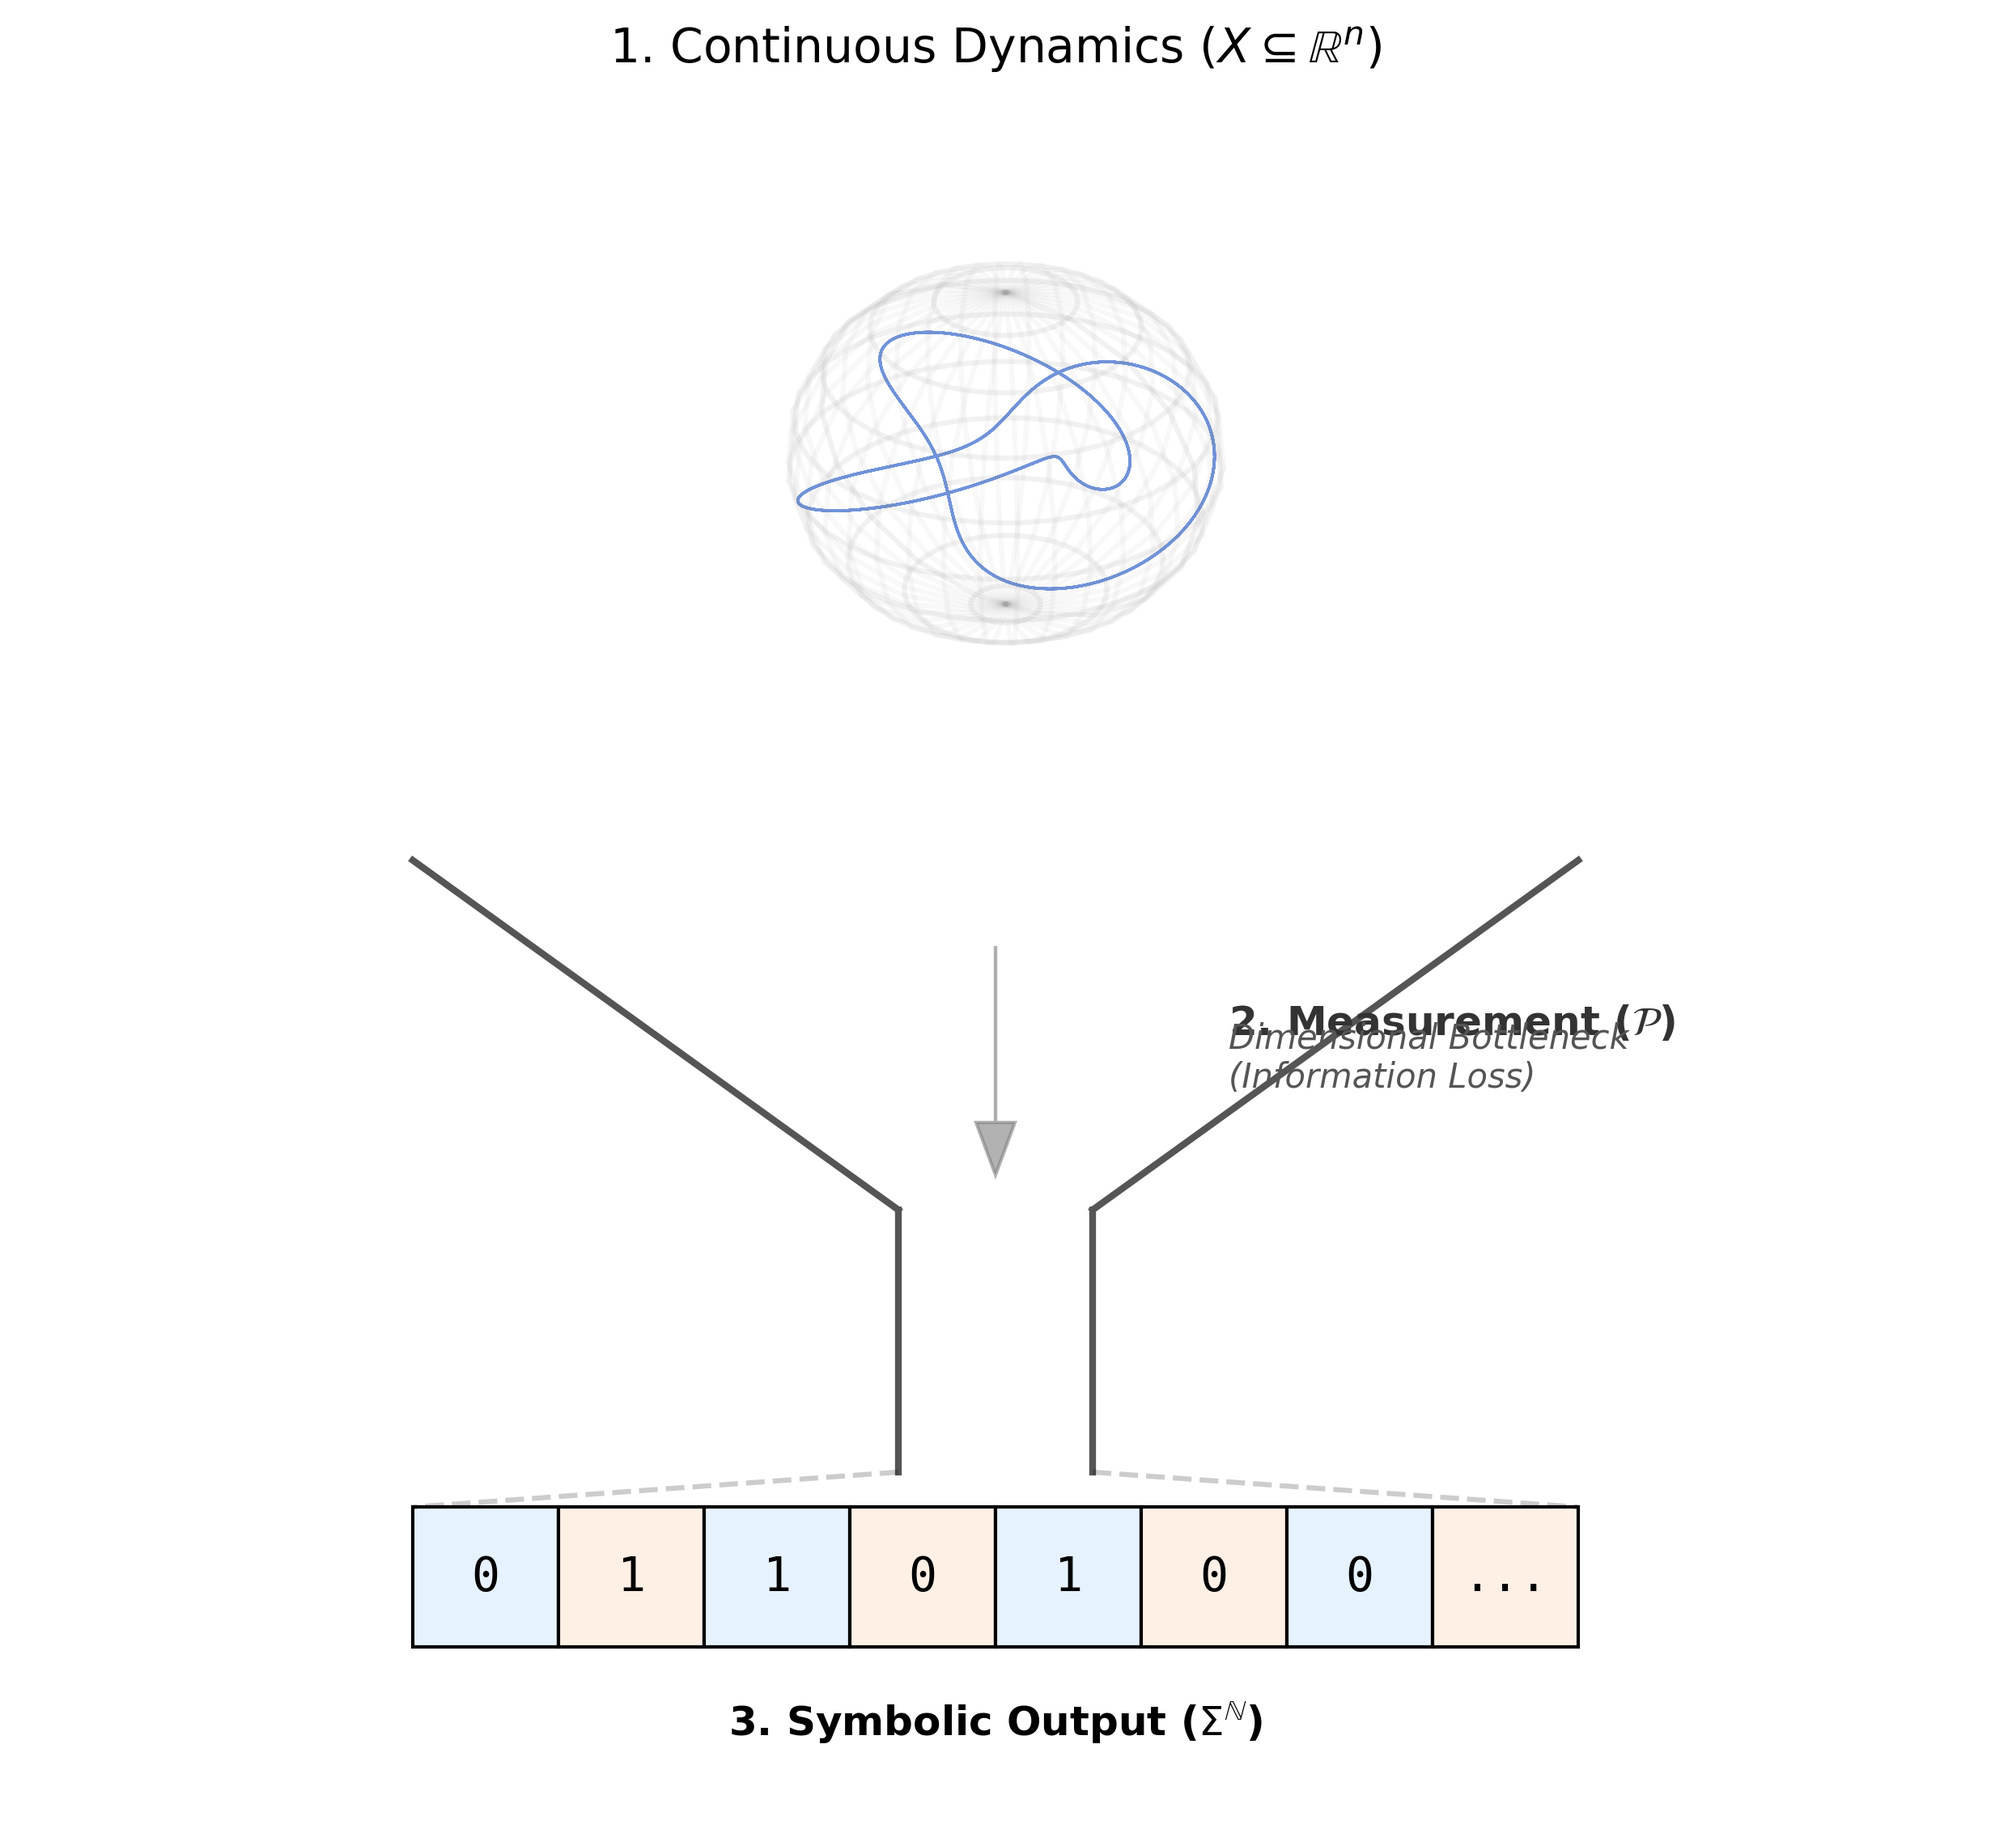
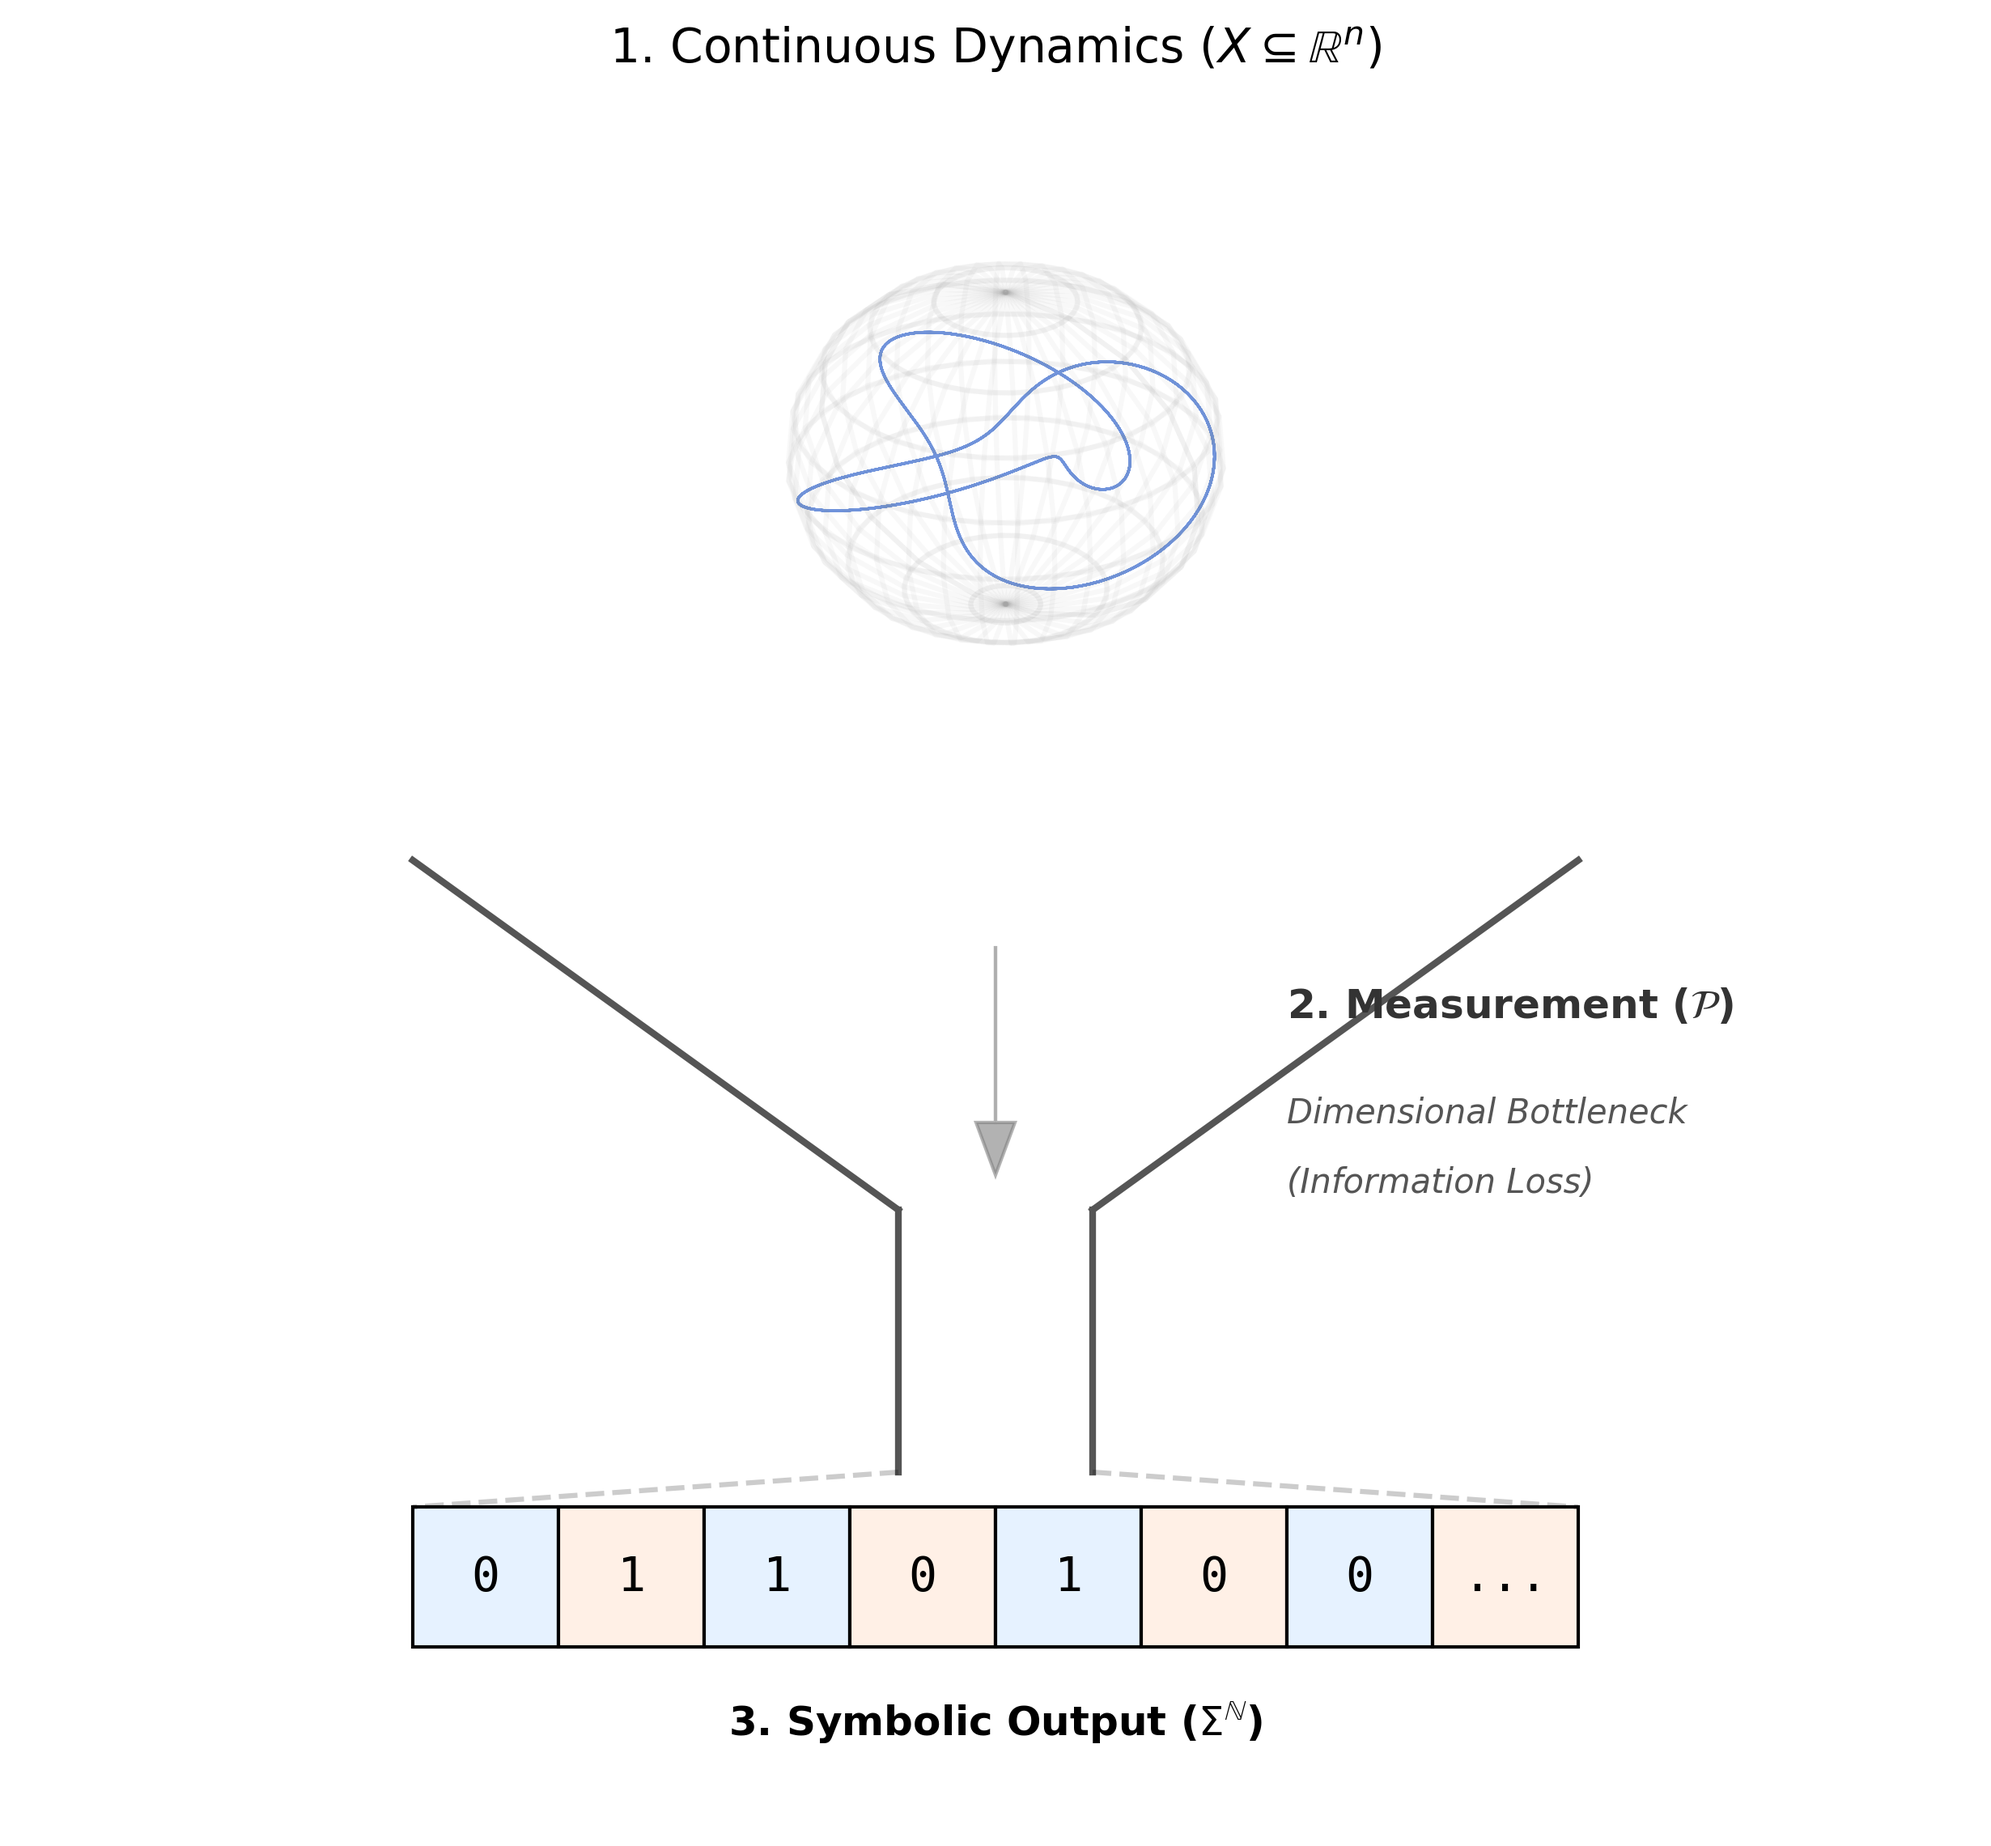
Fix overlapping labels in bottleneck diagram

Changed region(s): [[0.6179, 0.5292, 0.865, 0.6537]]

diff --git a/code/bottleneck_diagram.py b/code/bottleneck_diagram.py
@@ -77,9 +77,11 @@ def generate_bottleneck_diagram():
                 '-', lw=2, color=funnel_color)
 
     # Annotations for the Process
-    ax_mid.text(center_x + 1.2, 4.5, r"2. Measurement ($\mathcal{P}$)",
+    ax_mid.text(center_x + 1.5, 4.6, r"2. Measurement ($\mathcal{P}$)",
                 fontsize=12, fontweight='bold', color='#333333')
-    ax_mid.text(center_x + 1.2, 4.2, "Dimensional Bottleneck\n(Information Loss)",
+    ax_mid.text(center_x + 1.5, 4.0, "Dimensional Bottleneck",
+                fontsize=10, style='italic', color='#555555')
+    ax_mid.text(center_x + 1.5, 3.6, "(Information Loss)",
                 fontsize=10, style='italic', color='#555555')
 
     # Arrow indicating flow of information
